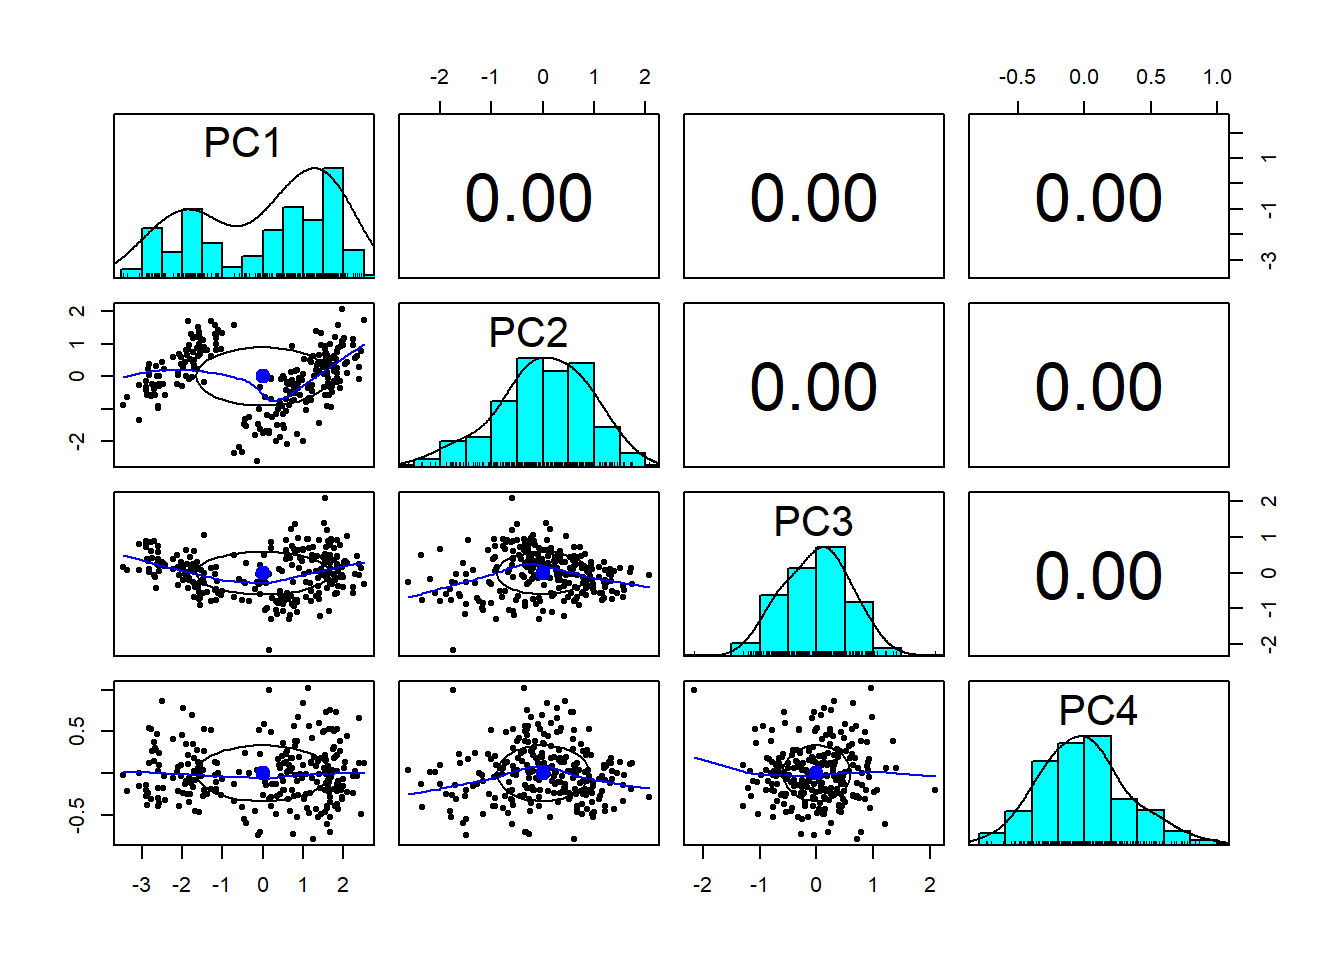
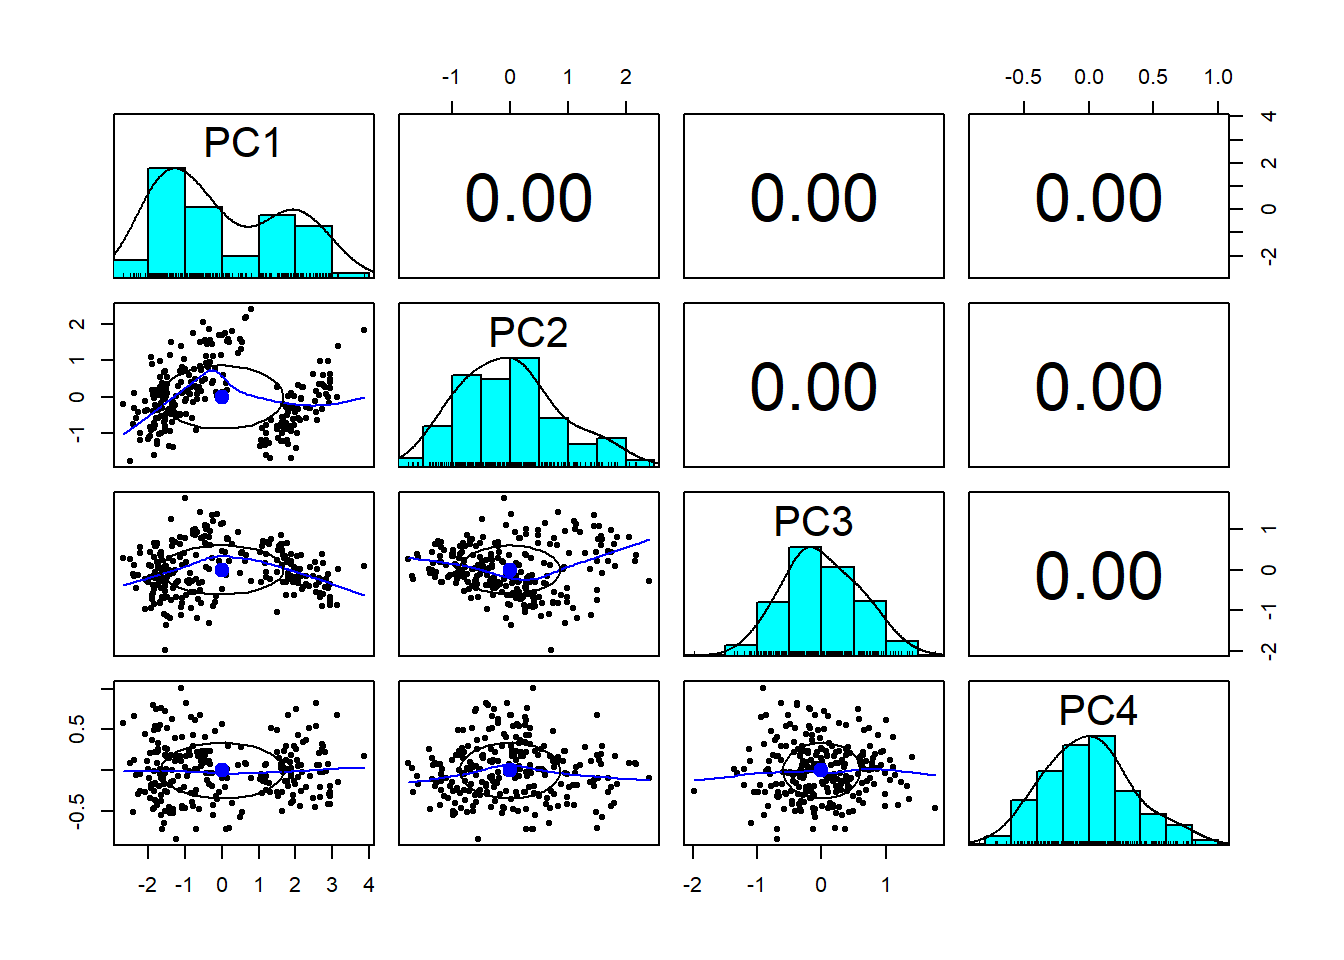
session 5
session 5

diff --git a/_site/posts/05_dimension_reduction/05_dimension_reduction.html b/_site/posts/05_dimension_reduction/05_dimension_reduction.html
@@ -428,14 +428,14 @@ bill_depth_mm  0.7071068 -0.7071068</code></pre>
 <div class="cell">
 <div class="cell-output cell-output-stdout">
 <pre><code>Standard deviations (1, .., p=4):
-[1] 1.6521911 0.8970946 0.5942363 0.3352150
+[1] 1.6661991 0.8641296 0.6007913 0.3407498
 
 Rotation (n x k) = (4 x 4):
-                         PC1          PC2        PC3        PC4
-bill_depth_mm      0.3945882 -0.790194994  0.4454062 -0.1466469
-bill_length_mm    -0.4508658 -0.609392671 -0.6394466  0.1283298
-flipper_length_mm -0.5772797 -0.001676042  0.2528105 -0.7764227
-body_mass_g       -0.5547687 -0.065035640  0.5734179  0.5993279</code></pre>
+                         PC1        PC2        PC3        PC4
+bill_depth_mm     -0.3976086 0.82393753 -0.3793941 -0.1381826
+bill_length_mm     0.4662939 0.55910036  0.6653178  0.1653147
+flipper_length_mm  0.5717186 0.03572466 -0.2356456 -0.7850686
+body_mass_g        0.5455412 0.08519083 -0.5982336  0.5807271</code></pre>
 </div>
 </div>
 </section>
@@ -444,7 +444,7 @@ body_mass_g       -0.5547687 -0.065035640  0.5734179  0.5993279</code></pre>
 <div class="cell">
 <div class="cell-output cell-output-stdout">
 <pre><code>    bill_depth_mm    bill_length_mm flipper_length_mm       body_mass_g 
-         17.14257          44.04618         200.97189        4197.48996 </code></pre>
+         17.18715          43.76426         200.65462        4196.48594 </code></pre>
 </div>
 </div>
 </section>
@@ -453,7 +453,7 @@ body_mass_g       -0.5547687 -0.065035640  0.5734179  0.5993279</code></pre>
 <div class="cell">
 <div class="cell-output cell-output-stdout">
 <pre><code>    bill_depth_mm    bill_length_mm flipper_length_mm       body_mass_g 
-         1.937229          5.567387         14.127131        803.430287 </code></pre>
+         1.961586          5.445164         13.913079        802.993518 </code></pre>
 </div>
 </div>
 </section>
@@ -504,7 +504,7 @@ body_mass_g       -0.5547687 -0.065035640  0.5734179  0.5993279</code></pre>
 </ul>
 <div class="cell">
 <div class="cell-output cell-output-stdout">
-<pre><code>[1] "MSE: 158326.144647264"</code></pre>
+<pre><code>[1] "MSE: 132370.816130703"</code></pre>
 </div>
 </div>
 </section>
@@ -538,7 +538,7 @@ body_mass_g       -0.5547687 -0.065035640  0.5734179  0.5993279</code></pre>
 </div>
 <div class="cell">
 <div class="cell-output cell-output-stdout">
-<pre><code>[1] "MSE: 252861.426286193"</code></pre>
+<pre><code>[1] "MSE: 224001.009481778"</code></pre>
 </div>
 </div>
 </section>
@@ -767,6 +767,7 @@ body_mass_g       -0.5547687 -0.065035640  0.5734179  0.5993279</code></pre>
 <li><p>due this Friday:</p>
 <ul>
 <li>Precept 3</li>
+<li>Literature Report (quick essay)</li>
 <li>Pick Group Partners (survey)</li>
 </ul></li>
 </ul>

diff --git a/_site/blog.html b/_site/blog.html
@@ -201,7 +201,7 @@ window.Quarto = {
 
 <div class="quarto-listing quarto-listing-container-default" id="listing-listing">
 <div class="list quarto-listing-default">
-<div class="quarto-post image-right" data-index="0" data-listing-date-sort="1789963200000" data-listing-file-modified-sort="1789947365486" data-listing-date-modified-sort="NaN" data-listing-reading-time-sort="13" data-listing-word-count-sort="2588">
+<div class="quarto-post image-right" data-index="0" data-listing-date-sort="1789963200000" data-listing-file-modified-sort="1790039760902" data-listing-date-modified-sort="NaN" data-listing-reading-time-sort="13" data-listing-word-count-sort="2596">
 <div class="thumbnail"><a href="./posts/05_dimension_reduction/05_dimension_reduction.html" class="no-external">
 
 <p class="card-img-top"><img loading='lazy' src="posts\05_dimension_reduction\05_dimension_reduction_files\figure-html\unnamed-chunk-2-1.png"  class="thumbnail-image card-img"/></p>

diff --git a/_site/index.html b/_site/index.html
@@ -201,7 +201,7 @@ window.Quarto = {
 
 <div class="quarto-listing quarto-listing-container-default" id="listing-listing">
 <div class="list quarto-listing-default">
-<div class="quarto-post image-right" data-index="0" data-listing-date-sort="1789963200000" data-listing-file-modified-sort="1789947365486" data-listing-date-modified-sort="NaN" data-listing-reading-time-sort="13" data-listing-word-count-sort="2588">
+<div class="quarto-post image-right" data-index="0" data-listing-date-sort="1789963200000" data-listing-file-modified-sort="1790039760902" data-listing-date-modified-sort="NaN" data-listing-reading-time-sort="13" data-listing-word-count-sort="2596">
 <div class="thumbnail"><a href="./posts/05_dimension_reduction/05_dimension_reduction.html" class="no-external">
 
 <p class="card-img-top"><img loading='lazy' src="posts\05_dimension_reduction\05_dimension_reduction_files\figure-html\unnamed-chunk-2-1.png"  class="thumbnail-image card-img"/></p>
